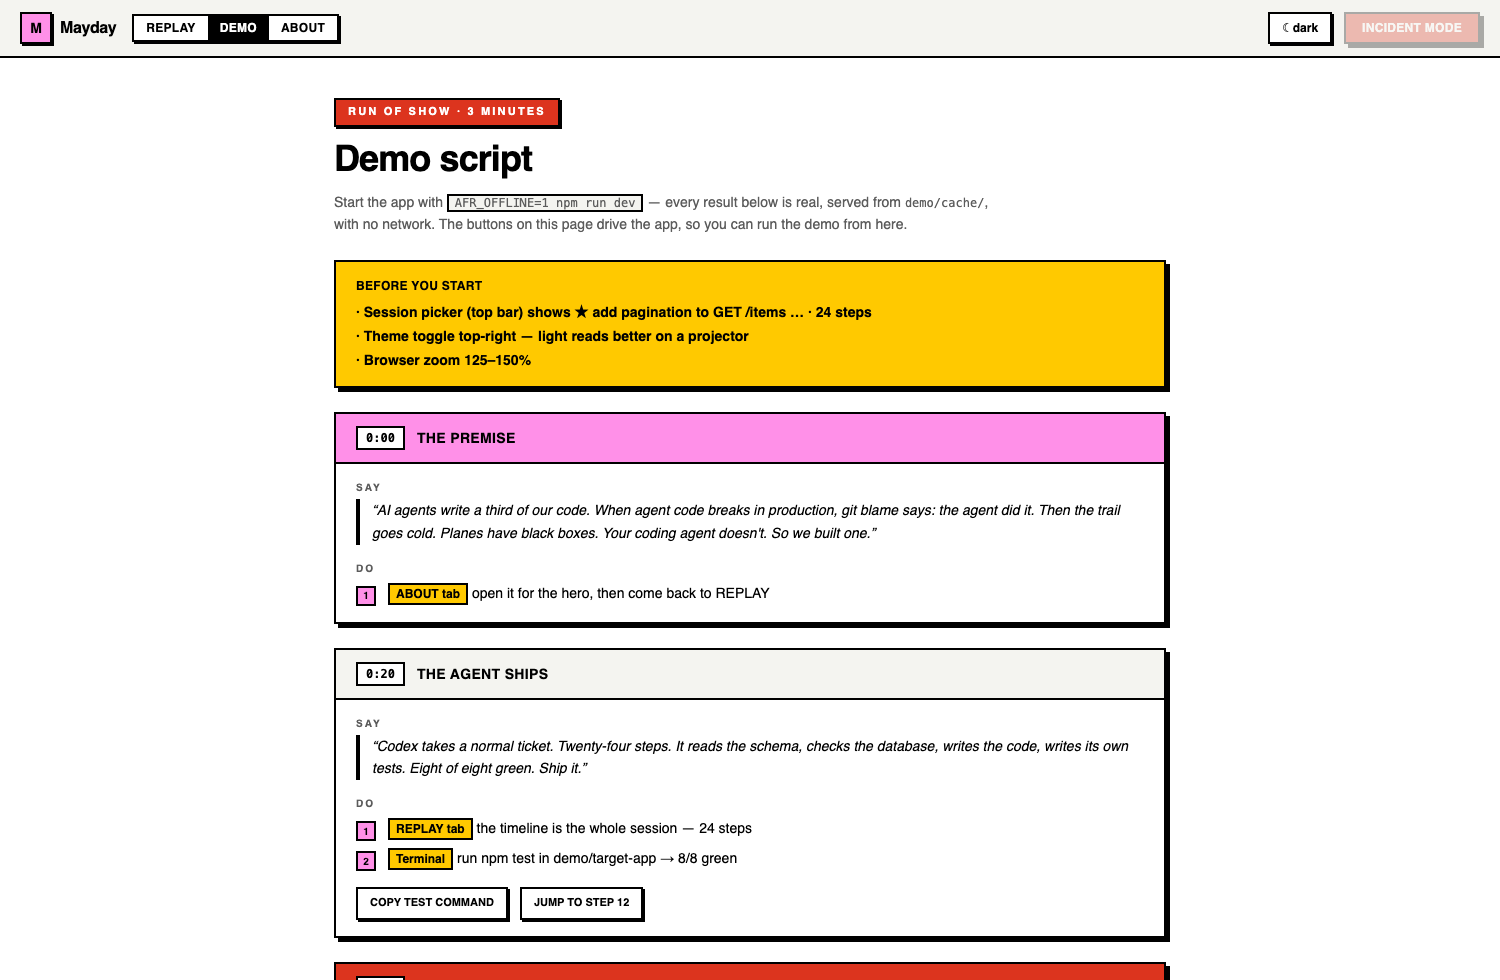
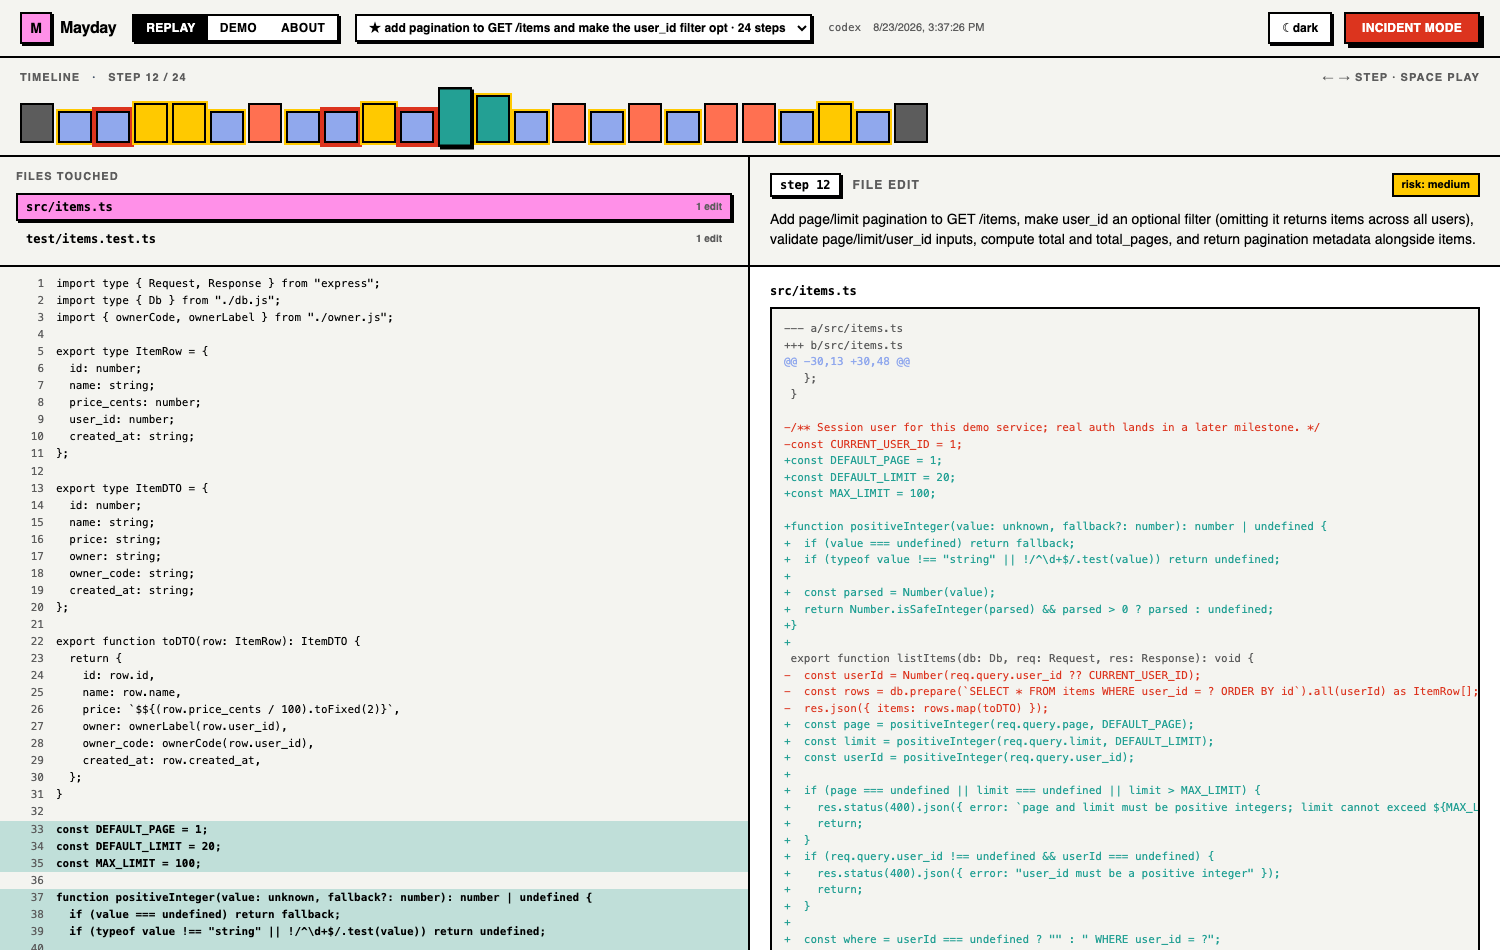
Before/after belief on the demo page, and a rehearsal harness
The Demo tab now shows the real before/after belief, fetched from the recorded
incident via a new GET /api/incident/cached (demo cache first, then the
committed <session>.incident.json) — no LLM call, no hardcoded strings, so the
script cannot drift from what the app will actually show on stage.

scripts/rehearse.ts (npm run rehearse) walks every beat of docs/DEMO-3MIN.md
against a cold, offline stack and times each act: app load, unit tests green,
prod-sim crashing, crash -> step 12, before/after on screen without scrolling,
jump to the basis step, the sandbox re-run, and both supporting tabs. 11/11.

diff --git a/scripts/rehearse.ts b/scripts/rehearse.ts
@@ -1,0 +1,157 @@
+/**
+ * Full demo rehearsal, headless — walks docs/DEMO-3MIN.md beat by beat against a
+ * cold, offline stack and times each act. Fails loudly if any beat cannot be
+ * performed, so "is it demoable?" has an evidence-backed answer.
+ *
+ *   AFR_OFFLINE=1 npm run dev
+ *   npx tsx scripts/rehearse.ts
+ */
+import { chromium } from "playwright";
+import { execFileSync } from "node:child_process";
+
+const BASE = process.env.UI_URL ?? "http://localhost:5173";
+const beats: { act: string; ok: boolean; ms: number; note: string }[] = [];
+
+function log(act: string, ok: boolean, ms: number, note = "") {
+  beats.push({ act, ok, ms, note });
+  console.log(`${ok ? "✅" : "❌"} ${act.padEnd(34)} ${String(Math.round(ms)).padStart(6)}ms  ${note}`);
+}
+
+async function timed<T>(fn: () => Promise<T>): Promise<[T, number]> {
+  const t0 = Date.now();
+  const out = await fn();
+  return [out, Date.now() - t0];
+}
+
+const browser = await chromium.launch();
+const page = await browser.newPage({ viewport: { width: 1600, height: 1000 } });
+const errors: string[] = [];
+page.on("pageerror", (e) => errors.push(String(e)));
+
+// ── Act 0 · the app comes up ────────────────────────────────────────────────
+{
+  const [, ms] = await timed(async () => {
+    await page.goto(BASE, { waitUntil: "networkidle" });
+    await page.waitForSelector("button[title^='step 1 ']", { timeout: 30_000 });
+  });
+  const ticks = await page.locator("button[title^='step']").count();
+  log("app loads, golden trace ready", ticks >= 24, ms, `${ticks} steps`);
+}
+
+// ── Act 1 · the agent ships: tests are green ───────────────────────────────
+{
+  const t0 = Date.now();
+  let green = false;
+  let note = "";
+  try {
+    const out = execFileSync("npx", ["vitest", "run", "--root", "demo/target-app"], {
+      encoding: "utf8",
+      cwd: process.cwd(),
+      stdio: ["ignore", "pipe", "pipe"],
+    });
+    green = /Tests\s+\d+ passed/.test(out) && !/failed/.test(out);
+    note = (out.match(/Tests\s+.*/) ?? ["?"])[0].trim();
+  } catch (err) {
+    note = String((err as { stdout?: string }).stdout ?? err).slice(-120);
+  }
+  log("act 1 · unit tests green", green, Date.now() - t0, note);
+}
+
+// ── Act 2 · production disagrees ───────────────────────────────────────────
+{
+  const t0 = Date.now();
+  let crashed = false;
+  let note = "";
+  try {
+    execFileSync("npm", ["run", "prod-sim", "--workspace", "@mayday/target-app"], {
+      encoding: "utf8",
+      stdio: ["ignore", "pipe", "pipe"],
+    });
+    note = "prod-sim PASSED — the demo needs it to crash";
+  } catch (err) {
+    const out = String((err as { stdout?: string }).stdout ?? "");
+    crashed = /TypeError: Cannot read properties of null/.test(out);
+    note = crashed ? "TypeError at items.ts:67" : out.slice(-120);
+  }
+  log("act 2 · prod-sim crashes", crashed, Date.now() - t0, note);
+}
+
+// ── Act 3 · incident mode ──────────────────────────────────────────────────
+const CRASH = `TypeError: Cannot read properties of null (reading 'toString')
+    at ownerCode (/app/demo/target-app/src/owner.ts:6:22)
+    at toDTO (/app/demo/target-app/src/items.ts:28:17)
+    at listItems (/app/demo/target-app/src/items.ts:67:17)`;
+
+{
+  const [, ms] = await timed(async () => {
+    await page.locator("button:has-text('Incident mode')").click();
+    await page.waitForTimeout(250);
+    await page.locator("textarea").fill(CRASH);
+    await page.locator("button:has-text('Analyze')").click();
+    await page.waitForSelector("text=/forensics/i", { timeout: 60_000 });
+    await page.waitForTimeout(600);
+  });
+  const step = (await page.locator("text=/wrote the failing line/i").first().textContent()) ?? "";
+  log("act 3 · crash → root cause", /step 12/i.test(step), ms, step.trim());
+}
+
+{
+  const vh = page.viewportSize()?.height ?? 0;
+  const before = await page.locator("text=/what the agent believed/i").first().boundingBox();
+  const after = await page.locator("text=/what is actually true/i").first().boundingBox();
+  const visible = Boolean(before && after && before.y < vh && after.y < vh);
+  log("act 3 · before/after on screen", visible, 0, visible ? "no scrolling needed" : "below the fold");
+}
+
+{
+  const [, ms] = await timed(async () => {
+    await page.locator("button:has-text('belief formed here')").first().click();
+    await page.waitForTimeout(500);
+  });
+  const at = (await page.locator("text=/step \\d+ \\/ \\d+/").first().textContent()) ?? "";
+  log("act 3 · jump to the basis step", /step 9 /.test(at), ms, at.trim());
+}
+
+// ── Act 4 · time travel ────────────────────────────────────────────────────
+{
+  const [, ms] = await timed(async () => {
+    await page.locator("button:has-text('Re-run from step')").click();
+    await page.waitForSelector("text=/tests passed in sandbox|tests still failing/i", { timeout: 180_000 });
+    await page.waitForTimeout(400);
+  });
+  const verdict = (await page.locator("text=/tests passed in sandbox|tests still failing/i").first().textContent()) ?? "";
+  log("act 4 · sandbox re-run", /passed/i.test(verdict), ms, verdict.trim());
+}
+
+// ── Supporting tabs ────────────────────────────────────────────────────────
+{
+  const [, ms] = await timed(async () => {
+    await page.locator("button:has-text('demo')").first().click();
+    await page.waitForTimeout(900); // the belief pair is fetched on mount
+  });
+  const headline = await page.locator("h1").first().textContent();
+  log("demo tab renders", Boolean(headline), ms, headline?.slice(0, 40) ?? "");
+
+  // Check while the demo tab is still mounted, not after navigating away.
+  const belief = await page.locator("text=/what the agent believed/i").count();
+  log("demo tab shows before/after", belief > 0, 0, `${belief} panel(s)`);
+}
+
+{
+  const [, ms] = await timed(async () => {
+    await page.locator("button:has-text('about')").first().click();
+    await page.waitForTimeout(600);
+  });
+  const headline = await page.locator("h1").first().textContent();
+  log("about tab renders", Boolean(headline), ms, headline?.slice(0, 40) ?? "");
+}
+
+log("no console errors", errors.length === 0, 0, errors.slice(0, 1).join("") || "clean");
+
+await browser.close();
+
+const failed = beats.filter((b) => !b.ok);
+const total = beats.reduce((n, b) => n + b.ms, 0);
+console.log(`\n${beats.length - failed.length}/${beats.length} beats · ${(total / 1000).toFixed(1)}s of wall clock`);
+if (failed.length) console.log(`FAILED: ${failed.map((f) => f.act).join(", ")}`);
+process.exit(failed.length === 0 ? 0 : 1);

diff --git a/packages/ui/src/components/DemoGuide.tsx b/packages/ui/src/components/DemoGuide.tsx
@@ -5,7 +5,9 @@
  * the app itself: copy the crash to the clipboard, jump the scrubber to a step,
  * or open Incident Mode with the stack trace already pasted.
  */
-import { useState } from "react";
+import { useEffect, useState } from "react";
+import { api } from "../api";
+import type { IncidentResult } from "../types";
 
 export const CRASH_TEXT = `TypeError: Cannot read properties of null (reading 'toString')
     at ownerCode (/app/demo/target-app/src/owner.ts:6:22)
@@ -93,13 +95,69 @@ function Beat({
   );
 }
 
+/** The real before/after belief, read from the recorded incident — never hardcoded. */
+function BeliefPair({ incident }: { incident: IncidentResult | null }) {
+  if (!incident?.assumption) {
+    return (
+      <div className="border-2 border-edge bg-panel px-3 py-2 text-xs font-bold">
+        Run the incident once and the real before/after belief appears here.
+      </div>
+    );
+  }
+  return (
+    <div>
+      <div className="mb-2 text-[10px] font-black uppercase tracking-[0.2em] text-muted">
+        what lands on screen — read these two lines out loud
+      </div>
+      <div className="grid gap-3 md:grid-cols-2">
+        <div className="border-2 border-edge bg-danger px-3 py-2 shadow-hard-sm">
+          <div className="flex items-center gap-2">
+            <span className="border-2 border-edge bg-white px-1.5 text-[10px] font-black text-danger">BEFORE</span>
+            <span className="text-[10px] font-black uppercase tracking-widest text-white/80">what the agent believed</span>
+          </div>
+          <div className="mt-1.5 text-sm font-bold text-white line-through decoration-white/50 decoration-2">
+            {incident.assumption.claim}
+          </div>
+          <div className="mt-1.5 text-[10px] font-bold text-white/75">formed at step {incident.basis_step ?? "?"}</div>
+        </div>
+        <div className="border-2 border-edge bg-ok px-3 py-2 shadow-hard-sm">
+          <div className="flex items-center gap-2">
+            <span className="border-2 border-edge bg-white px-1.5 text-[10px] font-black text-black">AFTER</span>
+            <span className="text-[10px] font-black uppercase tracking-widest text-black/70">what is actually true</span>
+          </div>
+          <div className="mt-1.5 text-sm font-bold text-black">
+            {incident.corrected_belief?.trim() || incident.correction.split(/(?<=\.)\s/)[0]}
+          </div>
+          <div className="mt-1.5 text-[10px] font-bold text-black/70">verified by the sandbox re-run</div>
+        </div>
+      </div>
+    </div>
+  );
+}
+
 export function DemoGuide({
+  sessionId,
   onJumpToStep,
   onOpenIncident,
 }: {
+  sessionId: string | null;
   onJumpToStep: (step: number) => void;
   onOpenIncident: (prefill: string) => void;
 }) {
+  const [incident, setIncident] = useState<IncidentResult | null>(null);
+
+  useEffect(() => {
+    if (!sessionId) return;
+    let cancelled = false;
+    api
+      .cachedIncident(sessionId)
+      .then((r) => !cancelled && setIncident(r))
+      .catch(() => !cancelled && setIncident(null));
+    return () => {
+      cancelled = true;
+    };
+  }, [sessionId]);
+
   return (
     <div className="min-h-0 flex-1 overflow-auto bg-ink">
       <div className="mx-auto max-w-4xl px-8 py-10">
@@ -192,6 +250,7 @@ export function DemoGuide({
               <div className="border-2 border-edge bg-panel px-3 py-2 text-xs font-bold">
                 ⏸ After ANALYZE, stop talking for two seconds. The dimming timeline is the demo.
               </div>
+              <BeliefPair incident={incident} />
               <div className="border-2 border-edge bg-accent px-3 py-2 text-xs font-bold text-black">
                 👀 Point at the <strong>BEFORE / AFTER</strong> pair in the forensics card. Read the struck-through
                 belief, then the green one. That contrast is the whole product in two lines.

diff --git a/packages/server/src/index.ts b/packages/server/src/index.ts
@@ -128,6 +128,34 @@ app.post("/api/incident", async (req, res) => {
   }
 });
 
+/**
+ * The already-known incident for a session, with no analysis and no LLM call:
+ * the demo cache first, then the committed <session>.incident.json beside the
+ * golden trace. Used by the Demo tab to show the real before/after belief.
+ */
+app.get("/api/incident/cached", (req, res) => {
+  const sessionId = String(req.query.session_id ?? "");
+  if (!sessionId) {
+    res.status(400).json({ error: "session_id is required" });
+    return;
+  }
+
+  const hit = cache.getNearest<Record<string, unknown>>(REPO_ROOT, "incident", sessionId);
+  if (hit) {
+    res.json({ ...hit, source: "cache" });
+    return;
+  }
+
+  for (const dir of TRACE_DIRS) {
+    const file = join(dir, `${sessionId}.incident.json`);
+    if (existsSync(file)) {
+      res.json({ ...JSON.parse(readFileSync(file, "utf8")), source: "committed" });
+      return;
+    }
+  }
+  res.status(404).json({ error: "no incident recorded for this session yet" });
+});
+
 app.get("/api/greptile", async (req, res) => {
   const pr = Number(req.query.pr ?? 0);
   const repo = String(req.query.repo ?? process.env.GITHUB_REPO ?? "");

diff --git a/scripts/probe-demo.ts b/scripts/probe-demo.ts
@@ -1,0 +1,15 @@
+import { chromium } from "playwright";
+const browser = await chromium.launch();
+const page = await browser.newPage({ viewport: { width: 1500, height: 1000 } });
+const reqs: string[] = [];
+page.on("response", (r) => { if (r.url().includes("/api/incident/cached")) reqs.push(`${r.status()} ${r.url()}`); });
+page.on("pageerror", (e) => console.log("PAGE ERROR:", String(e).slice(0, 200)));
+await page.goto("http://localhost:5173", { waitUntil: "networkidle" });
+await page.waitForTimeout(600);
+await page.locator("button:has-text('demo')").first().click();
+await page.waitForTimeout(1500);
+console.log("cached-incident requests:", reqs.length ? reqs : "NONE MADE");
+console.log("fallback text present   :", await page.locator("text=/Run the incident once/i").count());
+console.log("BEFORE panel present    :", await page.locator("text=/what the agent believed/i").count());
+console.log("beat headers            :", await page.locator("text=/^say$/i").count());
+await browser.close();

diff --git a/scripts/peek2.ts b/scripts/peek2.ts
@@ -1,0 +1,11 @@
+import { chromium } from "playwright";
+const browser = await chromium.launch();
+const page = await browser.newPage({ viewport: { width: 1400, height: 1000 } });
+await page.goto("http://localhost:5173", { waitUntil: "networkidle" });
+await page.waitForTimeout(500);
+await page.locator("button:has-text('demo')").first().click();
+await page.waitForTimeout(1200);
+await page.locator("text=/what the agent believed/i").first().scrollIntoViewIfNeeded();
+await page.waitForTimeout(400);
+await page.screenshot({ path: "docs/screenshots/light-07-demo-before-after.png" });
+await browser.close();

diff --git a/packages/ui/src/api.ts b/packages/ui/src/api.ts
@@ -22,6 +22,11 @@ export const api = {
       json<{ path: string; step: number; content: string }>(r),
     ),
 
+  cachedIncident: (sessionId: string) =>
+    fetch(`/api/incident/cached?session_id=${encodeURIComponent(sessionId)}`).then((r) =>
+      json<IncidentResult & { source: string }>(r),
+    ),
+
   incident: (body: { session_id: string; text?: string; finding?: unknown }) =>
     fetch("/api/incident", {
       method: "POST",

diff --git a/packages/ui/src/App.tsx b/packages/ui/src/App.tsx
@@ -175,6 +175,7 @@ export default function App() {
         <About />
       ) : tab === "demo" ? (
         <DemoGuide
+          sessionId={sessionId}
           onJumpToStep={(step) => {
             setTab("replay");
             goto(step);

diff --git a/README.md b/README.md
@@ -110,6 +110,15 @@ the app, so the presenter never has to remember where to click.
 
 ![Demo guide](docs/screenshots/light-06-demo-guide.png)
 
+The Demo tab also shows the **real** before/after belief, fetched from the recorded incident rather
+than hardcoded, so the presenter can read both lines straight off the script:
+
+![Before and after belief on the demo page](docs/screenshots/light-07-demo-before-after.png)
+
+```bash
+npm run rehearse    # walks every beat headlessly against a cold, offline stack
+```
+
 ---
 
 ## Architecture

diff --git a/docs/DEMO-3MIN.md b/docs/DEMO-3MIN.md
@@ -1,6 +1,8 @@
 # Mayday — 3-minute video script
 
-Run with `AFR_OFFLINE=1 npm run dev`. Every result on screen is real, served from
+Run with `AFR_OFFLINE=1 npm run dev`. The **Demo tab inside the app** carries this
+same script with copy buttons and one-click actions, plus the live before/after belief.
+Verify the whole run with `npm run rehearse`. Every result on screen is real, served from
 `demo/cache/`. Nothing depends on the network.
 
 ---
